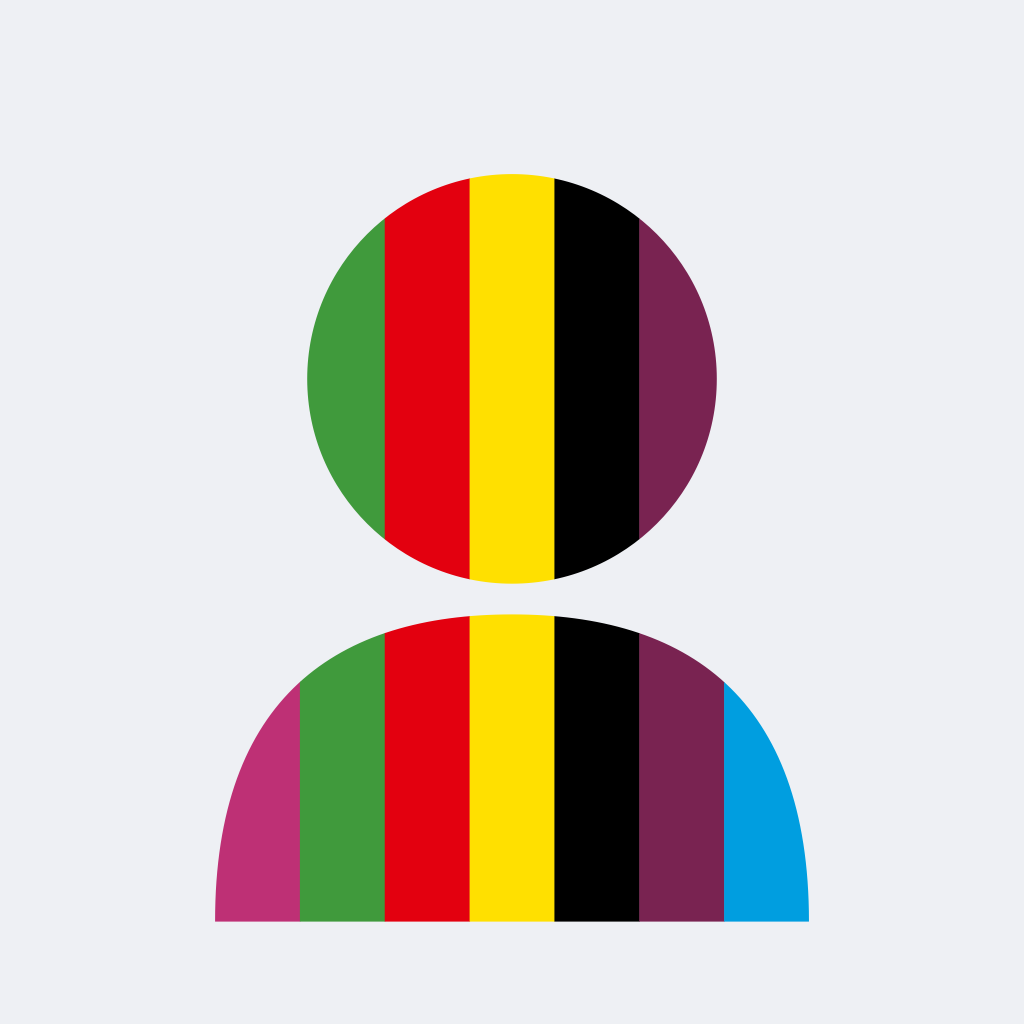
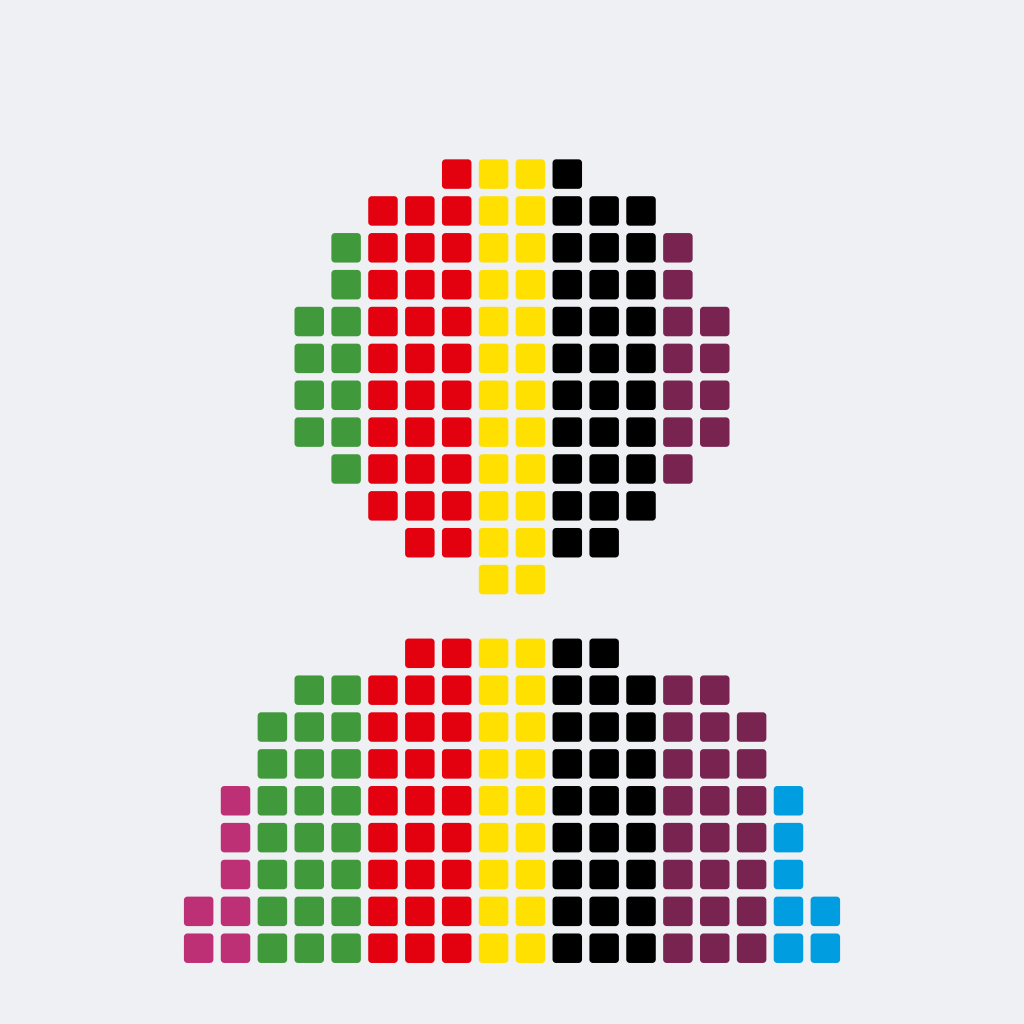
App-Symbol Mosaik-Kopf (M2, FDP zwei Spalten)
20 Kachelspalten, FDP 2, alle anderen Parteien 3; Kopf und Schultern
getrennt. Ersetzt den Streifen-Kopf.

Changed region(s): [[0.1562, 0.1562, 0.8438, 0.9375]]

diff --git a/pipeline/appicon.swift b/pipeline/appicon.swift
@@ -1,8 +1,9 @@
-// Zeichnet das App-Symbol „Spektrum-Kopf“ als PNG (ohne abgerundete Ecken, die setzt iOS selbst).
+// Zeichnet das App-Symbol „Mosaik-Kopf“ als PNG (ohne abgerundete Ecken, die setzt iOS selbst).
 //
-// Kopf und Schultern aus sieben gleich breiten Streifen, von links nach rechts:
-// Linke, Grüne, SPD, FDP, Union, BSW, AfD. Der Kopf ist so groß, dass Grün noch im Kopf
-// zu sehen ist, das AfD-Blau ganz rechts aber nur in den Schultern liegt.
+// Kopf und Schultern aus kleinen Kacheln. Jede Spalte gehört einer Partei, von links nach rechts:
+// Linke, Grüne, SPD, FDP, Union, BSW, AfD. Die FDP hat zwei Spalten, alle anderen drei
+// (Entscheidung nach der Symbol-Runde vom 17.10.2026). Grün liegt noch im Kopf, das
+// AfD-Blau ganz rechts und die Linke ganz links nur in den Schultern.
 //
 // Aufruf: swiftc -O pipeline/appicon.swift -o pipeline/appicon
 //         pipeline/appicon <ausgabe.png> [größe]   (Standard 1024)
@@ -21,31 +22,48 @@ func rgb(_ hex: UInt32) -> CGColor {
 }
 
 let background = rgb(0xEEF0F4)
-// Offizielle Parteifarben (Wikidata P465, FDP: Gelb von fdp.de; siehe pipeline/colors.py)
-let stripes: [UInt32] = [0xBE3075, 0x409A3C, 0xE3000F, 0xFFE000, 0x000000, 0x792351, 0x009EE0]  // Linke, Grüne, SPD, FDP, Union, BSW, AfD
+// Offizielle Parteifarben (Wikidata P465, FDP: Gelb von fdp.de; siehe pipeline/colors.py) und Spaltenzahl je Partei
+let parties: [(color: UInt32, columns: Int)] = [
+    (0xBE3075, 3),  // Linke
+    (0x409A3C, 3),  // Grüne
+    (0xE3000F, 3),  // SPD
+    (0xFFE000, 2),  // FDP
+    (0x000000, 3),  // Union
+    (0x792351, 3),  // BSW
+    (0x009EE0, 3),  // AfD
+]
+let columnColors = parties.flatMap { Array(repeating: $0.color, count: $0.columns) }
 
 let cs = CGColorSpace(name: CGColorSpace.sRGB)!
 let ctx = CGContext(data: nil, width: size, height: size, bitsPerComponent: 8, bytesPerRow: 0, space: cs,
                     bitmapInfo: CGImageAlphaInfo.noneSkipLast.rawValue)!
 // Koordinaten wie im SVG-Entwurf: Ursprung oben links
 ctx.translateBy(x: 0, y: CGFloat(size)); ctx.scaleBy(x: s, y: -s)
-
 ctx.setFillColor(background); ctx.fill(CGRect(x: 0, y: 0, width: 100, height: 100))
 
-// Kopf und Schultern als Maske
+// Umriss: Kopf und Schultern (wie Entwurf M2)
 let bust = CGMutablePath()
-// Kopf: x 30 bis 70; die Streifen sind je 58/7 ≈ 8,3 breit, Grün reicht bis 37,6, Blau beginnt bei 70,7
-bust.addEllipse(in: CGRect(x: 30, y: 17, width: 40, height: 40))
-bust.move(to: CGPoint(x: 21, y: 90))
-bust.addCurve(to: CGPoint(x: 50, y: 60), control1: CGPoint(x: 21, y: 68), control2: CGPoint(x: 33, y: 60))
-bust.addCurve(to: CGPoint(x: 79, y: 90), control1: CGPoint(x: 67, y: 60), control2: CGPoint(x: 79, y: 68))
+bust.addEllipse(in: CGRect(x: 29, y: 15, width: 42, height: 42))
+bust.move(to: CGPoint(x: 19, y: 94))
+// Schultern beginnen eine Kachelreihe unter dem Kopf, damit kein „Hals“ aus Kacheln entsteht
+bust.addCurve(to: CGPoint(x: 50, y: 62.5), control1: CGPoint(x: 19, y: 70), control2: CGPoint(x: 32, y: 62.5))
+bust.addCurve(to: CGPoint(x: 81, y: 94), control1: CGPoint(x: 68, y: 62.5), control2: CGPoint(x: 81, y: 70))
 bust.closeSubpath()
-ctx.addPath(bust); ctx.clip()
 
-let x0: CGFloat = 21, w: CGFloat = 58 / CGFloat(stripes.count)
-for (i, c) in stripes.enumerated() {
-    ctx.setFillColor(rgb(c))
-    ctx.fill(CGRect(x: x0 + CGFloat(i) * w, y: 0, width: w + 0.05, height: 100))
+// Kachelraster: eine Kachel wird gesetzt, wenn ihr Mittelpunkt im Umriss liegt
+let x0: CGFloat = 14, x1: CGFloat = 86, y0: CGFloat = 8, y1: CGFloat = 96
+let cell = (x1 - x0) / CGFloat(columnColors.count)
+let gap = cell * 0.1, tile = cell - 2 * gap
+let rows = Int((y1 - y0) / cell)
+for r in 0..<rows {
+    for (c, color) in columnColors.enumerated() {
+        let x = x0 + CGFloat(c) * cell, y = y0 + CGFloat(r) * cell
+        guard bust.contains(CGPoint(x: x + cell / 2, y: y + cell / 2)) else { continue }
+        ctx.setFillColor(rgb(color))
+        ctx.addPath(CGPath(roundedRect: CGRect(x: x + gap, y: y + gap, width: tile, height: tile),
+                           cornerWidth: tile * 0.12, cornerHeight: tile * 0.12, transform: nil))
+        ctx.fillPath()
+    }
 }
 
 let img = ctx.makeImage()!

diff --git a/README.md b/README.md
@@ -19,7 +19,7 @@ Alle Farben stammen aus Wikidata (Eigenschaft P465, `pipeline/colors.py`). Das s
 
 ## App-Symbol
 
-„Spektrum-Kopf“: Kopf und Schultern aus sieben gleich breiten Streifen, von links nach rechts Linke, Grüne, SPD, FDP, Union, BSW, AfD, jeweils in der offiziellen Parteifarbe. Grün ist noch im Kopf zu sehen, das AfD-Blau ganz rechts liegt nur in den Schultern, die Linke ganz links ebenfalls. Erzeugt mit `pipeline/appicon.swift`, Vorlage in `docs/brand/app-symbol-1024.png`.
+„Mosaik-Kopf“: Kopf und Schultern aus kleinen Kacheln, jede Spalte gehört einer Partei. Von links nach rechts Linke, Grüne, SPD, FDP, Union, BSW, AfD in den offiziellen Parteifarben. Die FDP hat zwei Spalten, alle anderen drei. Erzeugt mit `pipeline/appicon.swift`, Vorlage in `docs/brand/app-symbol-1024.png`. Die Entwürfe der Symbol-Runden liegen als Artifacts vor (Symbol-Werkstatt, Mosaik-Varianten).
 
 ## Herkunft der Daten
 
